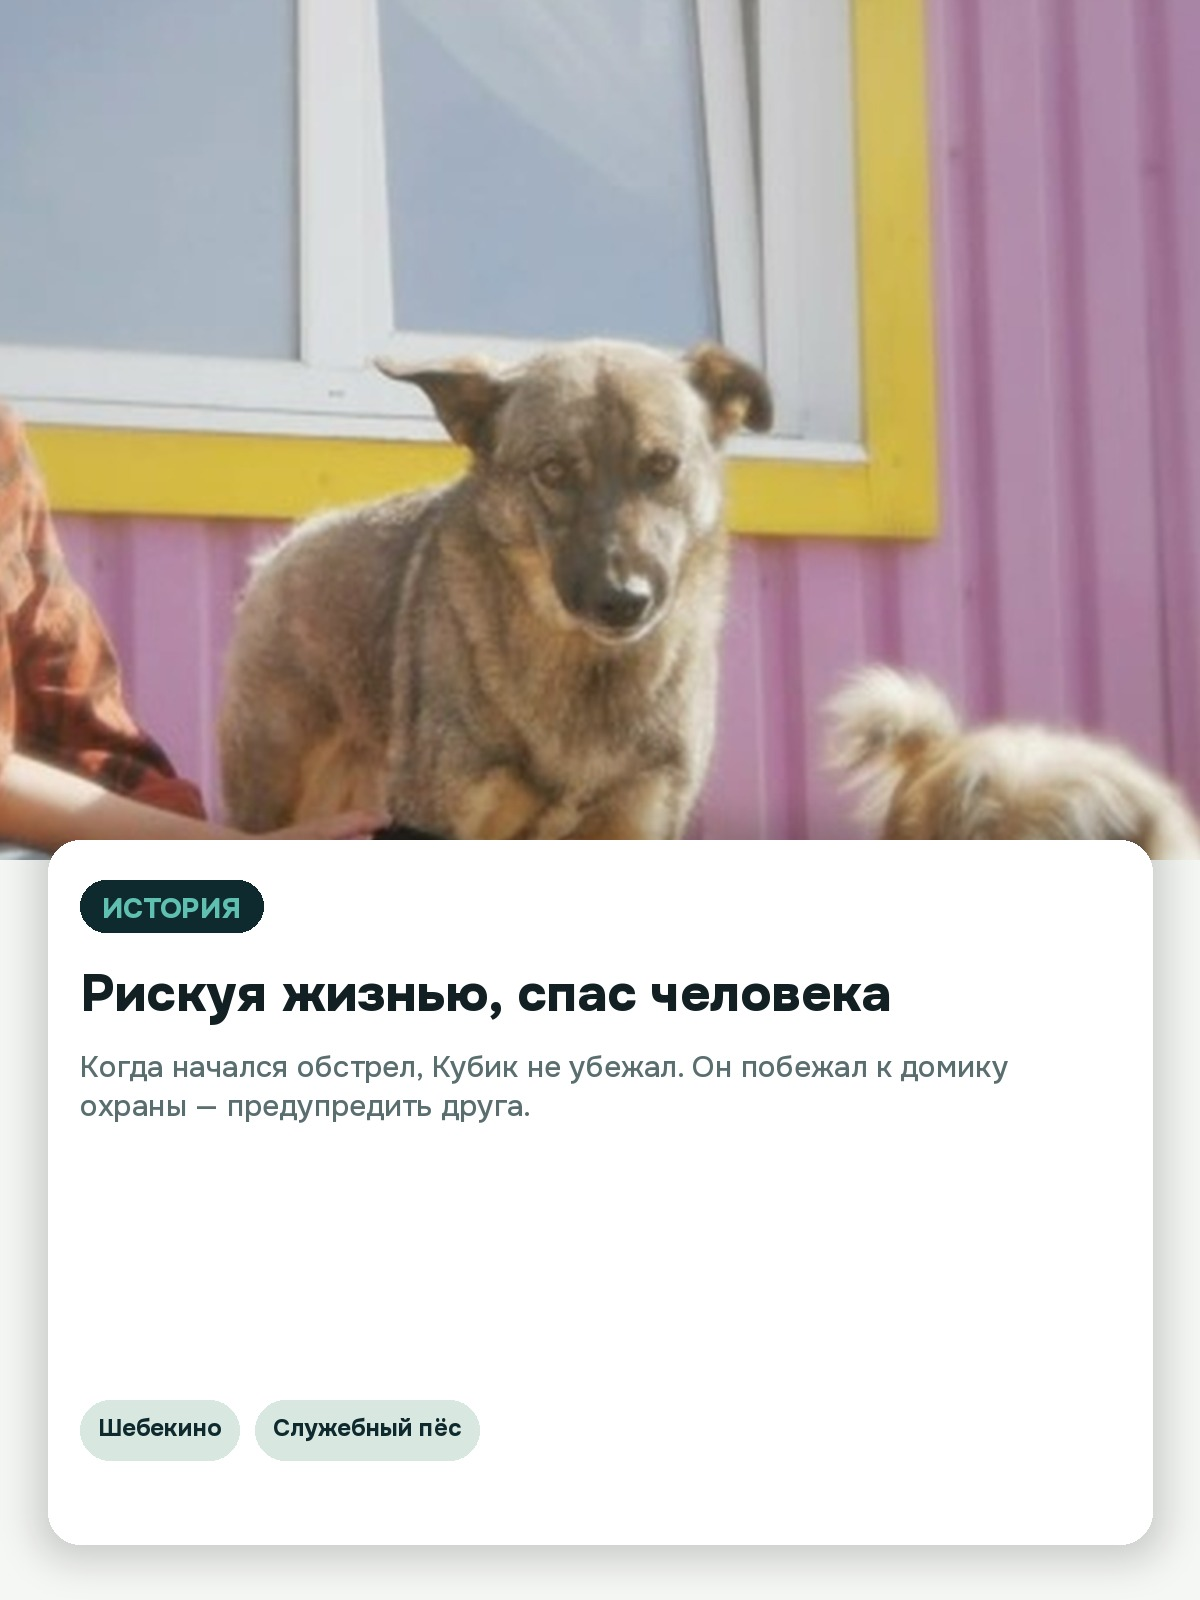
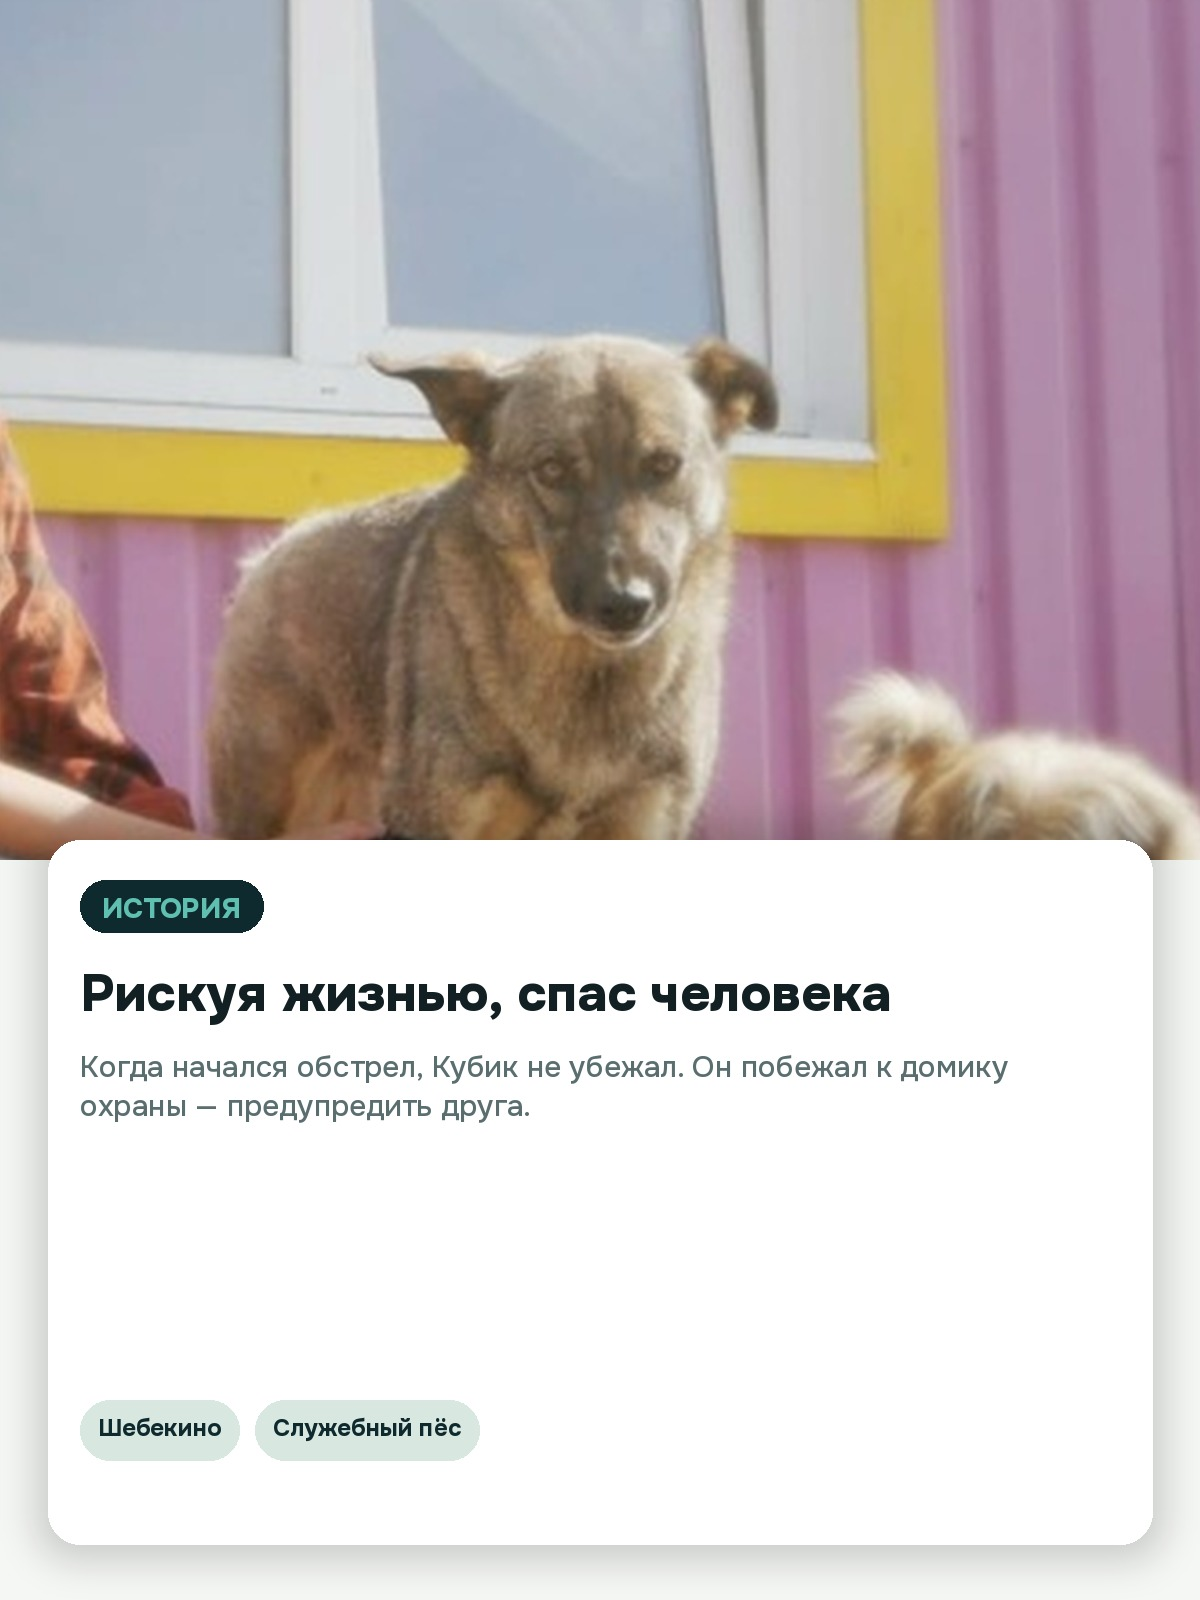
Fix story slide paste overwrite and refine face centering

diff --git a/scripts/generate_cards.py b/scripts/generate_cards.py
@@ -46,7 +46,7 @@ FOCUS = {
     "01-outdoor-portrait.jpg": (0.55, 0.62),
     "02-outdoor-yard.jpg": (0.30, 0.62),  # grey/tan Kubik on the left
     "03-recovered-brace.jpg": (0.62, 0.45),
-    "04-soft-portrait.jpg": (0.52, 0.70),
+    "04-soft-portrait.jpg": (0.50, 0.72),
     "05-recovery-bandages.jpg": (0.52, 0.40),
     "06-recovery-crate.jpg": (0.58, 0.50),
     "07-emergency.jpg": (0.52, 0.50),
@@ -57,7 +57,7 @@ ZOOM = {
     "01-outdoor-portrait.jpg": 1.5,
     "02-outdoor-yard.jpg": 1.9,
     "03-recovered-brace.jpg": 1.7,
-    "04-soft-portrait.jpg": 2.0,
+    "04-soft-portrait.jpg": 1.85,
     "05-recovery-bandages.jpg": 1.45,
     "06-recovery-crate.jpg": 1.75,
     "07-emergency.jpg": 1.3,
@@ -286,9 +286,7 @@ def card_story():
     shot = photo("04-soft-portrait.jpg", (W - 96, 720))
     mask = Image.new("L", shot.size, 0)
     ImageDraw.Draw(mask).rounded_rectangle((0, 0, shot.size[0], shot.size[1]), 28, fill=255)
-    layer = Image.new("RGB", (W, H), C["sand"])
-    layer.paste(shot, (48, 280), mask)
-    canvas.paste(layer)
+    canvas.paste(shot, (48, 280), mask)
 
     draw = ImageDraw.Draw(canvas)
     body = font(28, 500)
